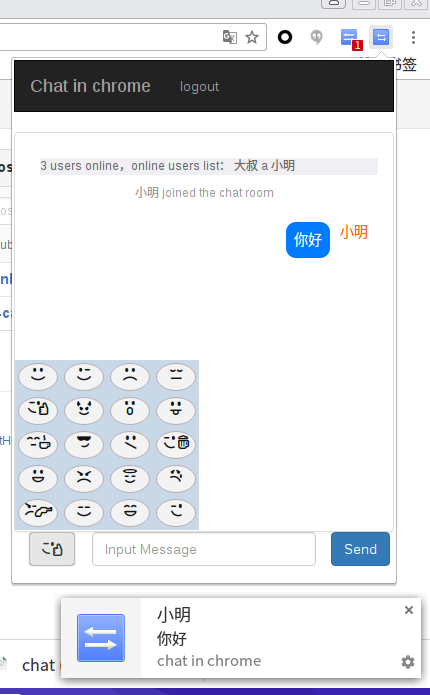
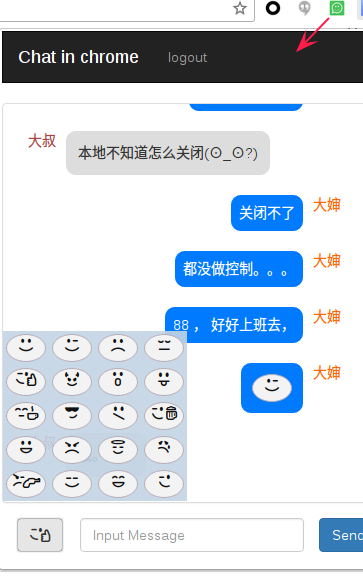
Add Reminder

diff --git a/client/scripts/background/background.js b/client/scripts/background/background.js
@@ -4,7 +4,8 @@ var onlineUsers = {};
 var onlineCount = 0;
 var login_user = {}; 
 var message_count = 0; 
-const url = 'ws://www.choldrim.com:3001/';
+var reminder = false;
+const url = 'ws://localhost:3001/';
 
 //chrome.webNavigation
 function updateIcon() {
@@ -70,8 +71,10 @@ chrome.runtime.onMessage.addListener((message, sender, sendResponse)=>{
                 chrome.runtime.sendMessage({listen_type:'send_message',message:message},(response)=>{
                     if(!response && !is_login_user){
                         //chrome.notifications api
-                        let notifi_content = obj.emotion_flag ? '发来表情' : obj.content;
-                        new Notification(obj.username, {icon: './images/48.png',body: notifi_content});
+                        if(reminder){
+                            let notifi_content = obj.emotion_flag ? '发来表情' : obj.content;
+                            new Notification(obj.username, {icon: './images/48.png',body: notifi_content});
+                        }
                         message_count++;
                         updateIcon();
                     }  
@@ -81,26 +84,32 @@ chrome.runtime.onMessage.addListener((message, sender, sendResponse)=>{
     }  
      /////////////To determine whether the user has login
     if(message.listen_type === 'if_user_exit'){
-        message_count = 0; 
         updateIcon();
         if(login_user.userid){  // user exist
-       　   sendResponse({if_user_exit:true,login_user:login_user,onlineUsers:onlineUsers,onlineCount:onlineCount,messages:messages});
+       　   sendResponse({if_user_exit:true,login_user:login_user,onlineUsers:onlineUsers,onlineCount:onlineCount,reminder:reminder,messages:messages});
         }else{  //if user dosen't exist
             messages = [];
+            message_count = 0;
             onlineUsers = {};
             onlineCount = 0;
-            login_user = {}; 
+            login_user = {};
+            reminder = false;
             sendResponse({if_user_exit:false});
         }
     }  
     /////////////send messages
     if(message.listen_type === 'send'){
-       　socket.emit('message', message.send_obj); 
+       socket.emit('message', message.send_obj); 
     }  
+    ///////////// change_reminder
+    if(message.listen_type === 'change_reminder'){
+       reminder = message.reminder;
+    }    
     ///////////// lagout
     if(message.listen_type === 'logout'){ 
         socket.disconnect(); // Notify the browser to close the connection
         messages = [];
+        reminder = false;
         login_user = {}; 
     }     
 });

diff --git a/client/gulpfile.js b/client/gulpfile.js
@@ -52,6 +52,7 @@ var task = {
     watch_scripts: "watch-scripts",
     watch_styles: "watch-styles",
     watch_htmls: "watch-htmls",
+    watch_background_scripts: "watch_background_scripts",
     htmls: "htmls",
     fonts: "fonts",
     manifest:"manifest",
@@ -146,6 +147,11 @@ gulp.task(task.background_scripts, "copy background_scripts to dest dir", functi
         .pipe(gulp.dest(dest_paths.background_scripts));
 });
 
+gulp.task(task.watch_background_scripts, "watch background_scripts and copy them to dest dir", function(){
+    gulp.start(task.background_scripts);
+    return gulp.watch(src_paths.background_scripts, [task.background_scripts]);
+});
+
 gulp.task(task.htmls, "copy htmls to dest dir", function(){
     return gulp.src(src_paths.htmls)
         .pipe(gulp.dest(dest_paths.htmls))
@@ -177,5 +183,5 @@ gulp.task(task.watch_htmls, "watch htmls and copy them to dest dir", function(){
     return gulp.watch(src_paths.htmls, [task.htmls]);
 });
 
-gulp.task(task.develop, [task.watch_htmls, task.watch_scripts,task.background_scripts, task.watch_styles,task.resources,task.watch_manifest, task.serve]);
-gulp.task(task.build, [task.htmls, task.fonts, task.images,task.background_scripts, task.build_scripts,task.manifest,task.resources, task.build_styles]);
+gulp.task(task.develop, [task.watch_htmls, task.watch_scripts,task.watch_background_scripts, task.background_scripts, task.watch_styles,task.resources,task.watch_manifest, task.serve]);
+gulp.task(task.build, [task.htmls, task.fonts,task.watch_background_scripts, task.images,task.background_scripts, task.build_scripts,task.manifest,task.resources, task.build_styles]);

diff --git a/client/main.html b/client/main.html
@@ -25,6 +25,7 @@
              <nav class="navbar navbar-inverse" role="navigation">
                   <span class="navbar-brand" >Chat in chrome</span>
                   <p class="navbar-text navbar-right">
+                        <input type="checkbox" ng-model="reminder" ng-click="change_reminder()"> Reminder
                         <span >{{username}}</span>
                       　<a href="" ng-click="logout()" class="navbar-link">logout</a>
               　　</p>
@@ -33,7 +34,7 @@
                 <div  class="panel-body" >
                   <div style="background:#EFEFF4;font-size:12px;margin-top:10px; margin-left:10px;color:#666;">
                         <span>{{onlineCount + ' users online，online users list：'}}
-                        <span ng-repeat="(key, value)  in onlineUsers">{{value + " "}}</span>{{online_message}}
+                        <span ng-repeat="(key, value)  in onlineUsers">{{value + "; "}}</span>{{online_message}}
                   </div> 
                   <section ng-repeat="message in messages" ng-switch on="message.emotion_flag"  class="{{message.section_class}}"> 
                      <div ng-if="message.section_type ==1" class="msg-system" ng-bind-html="message.content1"></div> 

diff --git a/client/scripts/main.js b/client/scripts/main.js
@@ -12,6 +12,7 @@ $rootScope.onlineCount  = 0;  //Current online user count
 $rootScope.send_content = "";
 $rootScope.main_show_flag = false;
 $rootScope.login_show_flag = true;
+$rootScope.emotion_show_flag = false;
 
 //scroll to bottom
 $rootScope.scrollToBottom = function(){
@@ -28,6 +29,7 @@ chrome.runtime.sendMessage({listen_type:'if_user_exit'},(response)=>{
         $rootScope.main_show_flag = true;
         $rootScope.login_show_flag = false;
         $rootScope.messages = response.messages;
+        $rootScope.reminder = response.reminder;
         $rootScope.onlineUsers = response.onlineUsers,
         $rootScope.onlineCount = response.onlineCount,
         $rootScope.login_user = response.login_user; 
@@ -63,7 +65,6 @@ chrome.runtime.onMessage.addListener((message, sender, sendResponse)=>{
         $rootScope.$apply(); 
         $rootScope.scrollToBottom(); 
     }
-}); 
-
+});
 });
 

diff --git a/client/scripts/ctrls/ChatController.js b/client/scripts/ctrls/ChatController.js
@@ -52,6 +52,12 @@ main_app.controller('ChatController',($scope,$window)=>{
         $scope.emotion_show();
     }; 
 
+    //change reminder();
+    $scope.change_reminder = function(){
+        console.log($scope.reminder);
+        chrome.runtime.sendMessage({listen_type:'change_reminder', reminder:$scope.reminder});
+    };  
+
     $scope.login_by_key=function($event){
       if($event.keyCode==13){//when press enter, send messages
           $scope.send();
